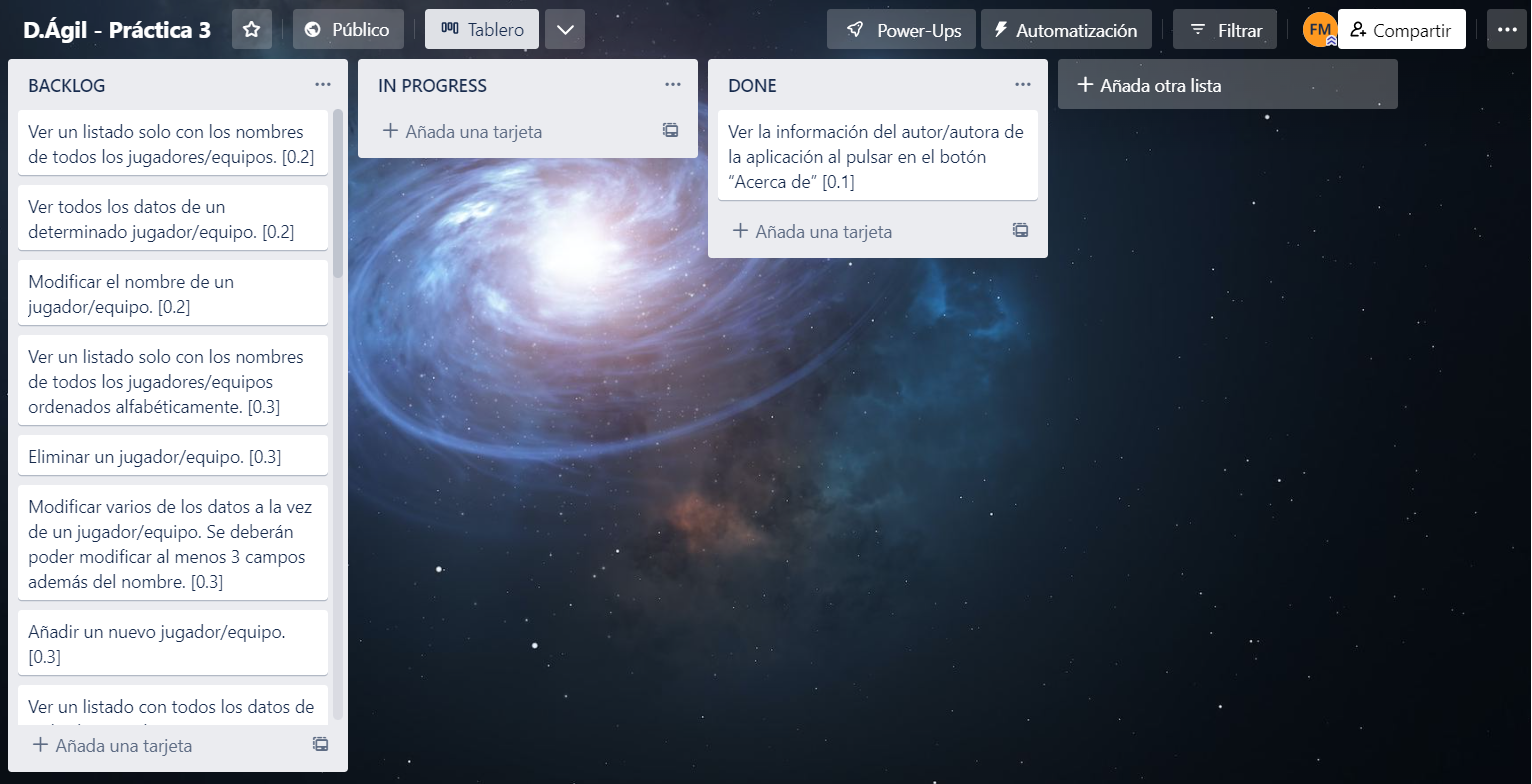
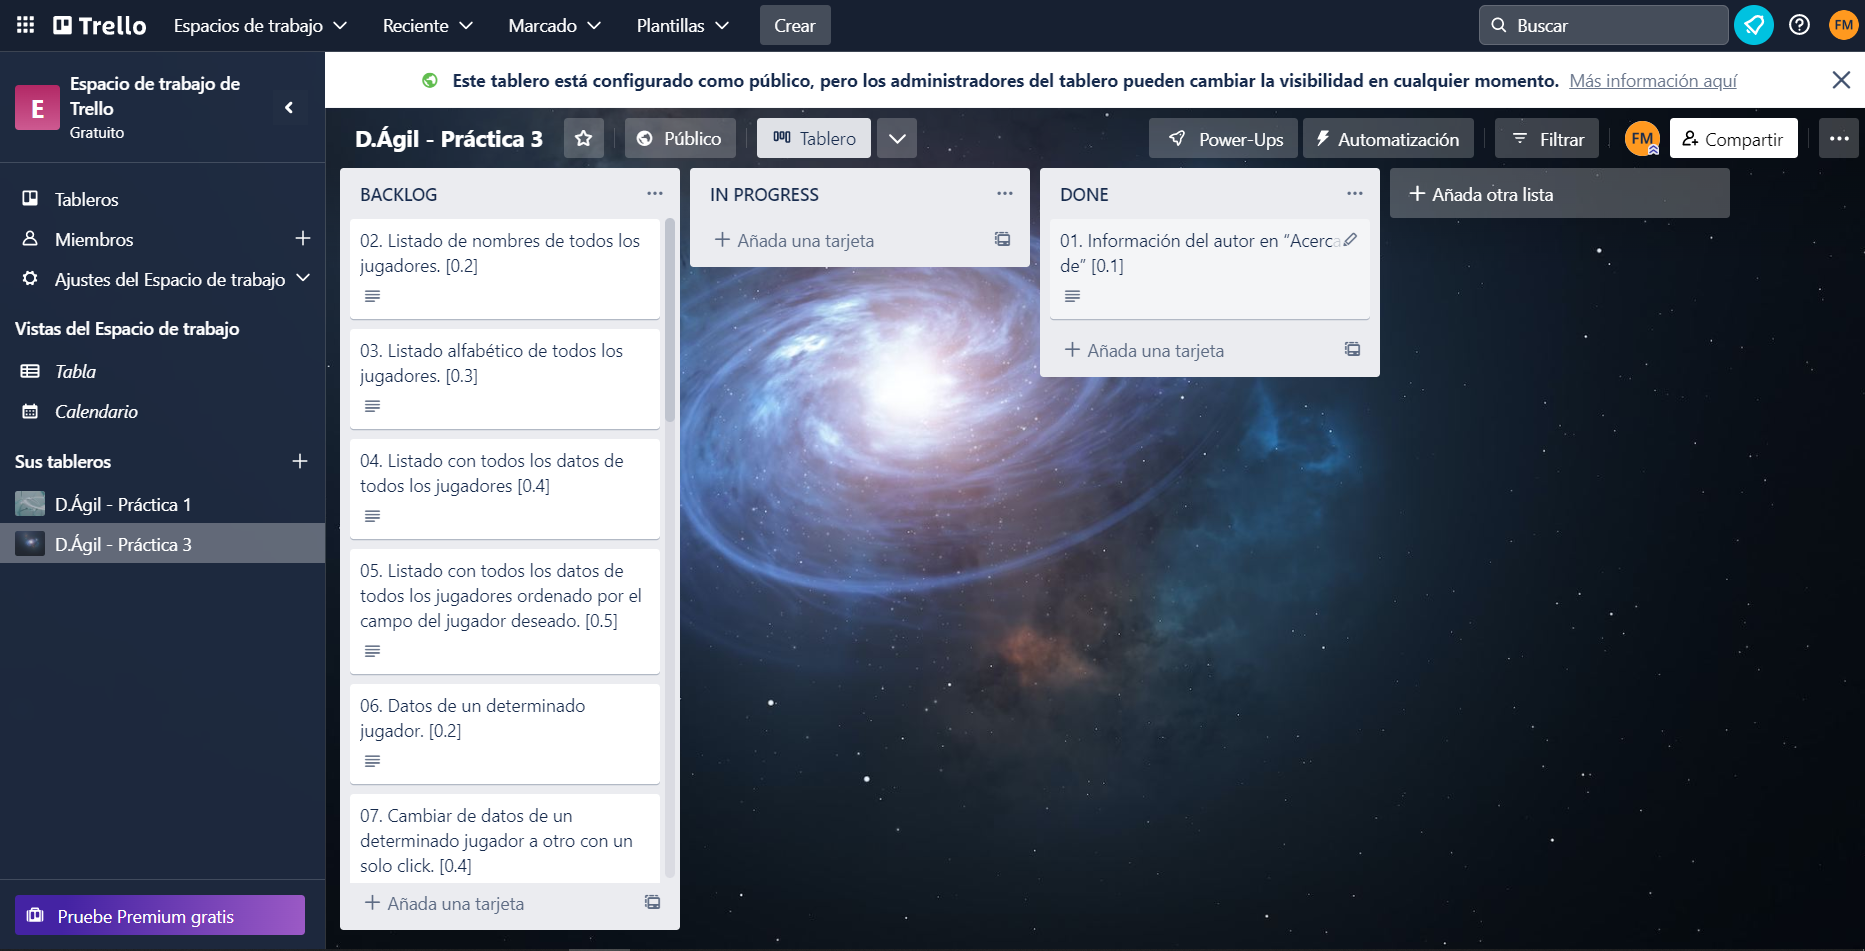
Correcciones menores

diff --git a/api-gateway/spec/server-spec.js b/api-gateway/spec/server-spec.js
@@ -35,6 +35,9 @@ describe('API Gateway: rutas estáticas', () => {
           //console.log( "BODY ACERCA DE ", res.body ); // Para comprobar qué contiene exactamente res.body
           assert(res.body.hasOwnProperty('mensaje'));
           assert(res.body.mensaje === "Microservicio MS Plantilla: acerca de");
+            assert(res.body.autor == "Francisco Javier Galvez Marin");
+            assert(res.body.email == "fjgm0038@red.ujaen.es");
+            assert(res.body.fecha == "28-03-2023");
 
         })
         .end((error) => { error ? done.fail(error) : done() })
